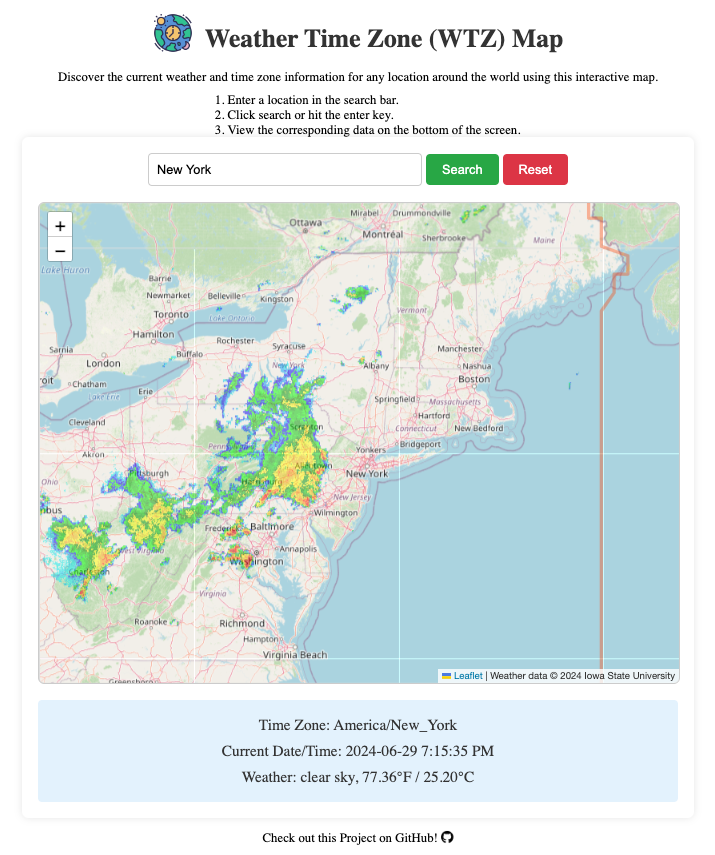
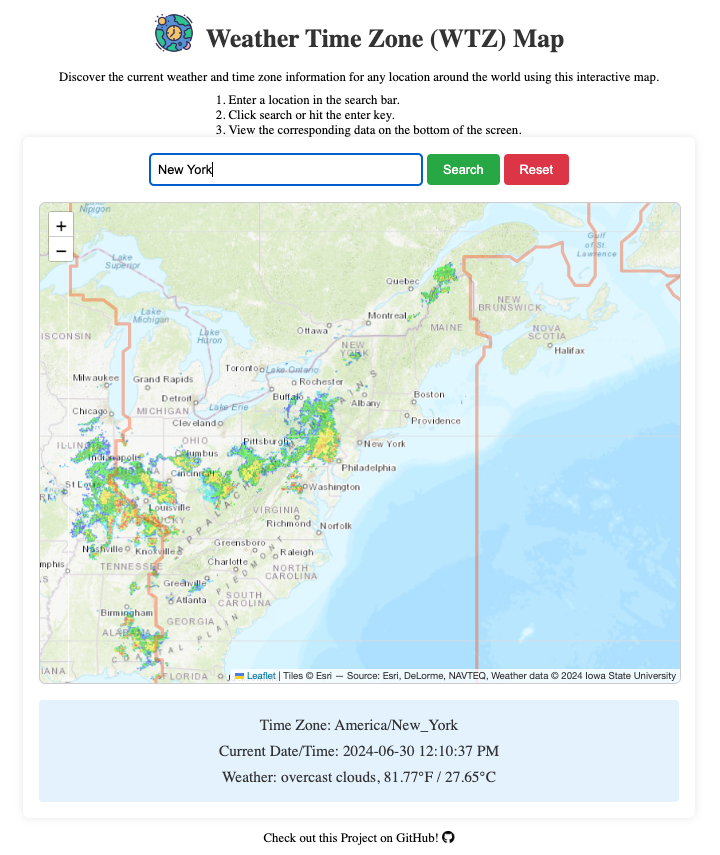
Update README and map style

diff --git a/components/MapComponent.vue b/components/MapComponent.vue
@@ -190,9 +190,20 @@ export default defineComponent({
       if (mapElement.value) {
         console.log("Initializing map");
         map.value = L.map(mapElement.value).setView([0, 0], 2);
+        
+        /* Change Map Provider Here */
+        L.tileLayer('https://server.arcgisonline.com/ArcGIS/rest/services/{style}/MapServer/tile/{z}/{y}/{x}', {
+          attribution: 'Tiles &copy; Esri &mdash; Source: Esri, DeLorme, NAVTEQ',
+          style: 'World_Topo_Map' // Change this to other styles like 'NatGeo_World_Map', 'World_Street_Map', etc.
+        }).addTo(map.value);
+        /*...*/
+
+        /* Previous Map Provider */
+        /*
         L.tileLayer("https://{s}.tile.openstreetmap.org/{z}/{x}/{y}.png", {
           maxZoom: 18,
         }).addTo(map.value);
+        */
         console.log("Map initialized");
 
         timezoneLayer.value = L.timezones

diff --git a/README.md b/README.md
@@ -2,7 +2,7 @@
 
 <div align="center">
     <a href="https://github.com/scottgriv/WTZ-Map" target="_blank">
-        <img src="/docs/images/icon.png" width="200" height="200"/>
+        <img src="./docs/images/icon.png" width="200" height="200"/>
     </a>
 </div>
 <br>
@@ -13,7 +13,7 @@
     <a href="mailto:scott.grivner@gmail.com"><img src="https://img.shields.io/badge/gmail-contact_me-EA4335?style=for-the-badge&logo=gmail" alt="Email Badge" /></a>
     <a href="https://www.buymeacoffee.com/scottgriv"><img src="https://img.shields.io/badge/buy_me_a_coffee-support_me-FFDD00?style=for-the-badge&logo=buymeacoffee&color=FFDD00" alt="BuyMeACoffee Badge" /></a>
     <br>
-    <a href="https://github.com/scottgriv/WTZ-Map/actions/workflows/pages/deploy-nuxt-site-to-pages" target="_blank"><img alt="GitHub Workflow Status (with event)" src="https://img.shields.io/github/actions/workflow/status/scottgriv/WTZ-Map/pages/deploy-nuxt-site-to-pages?style=for-the-badge&logo=github&label=GitHub%20Pages"></a>
+    <a href="https://github.com/scottgriv/WTZ-Map/actions/workflows/nuxtjs.yml" target="_blank"><img alt="GitHub Workflow Status (with event)" src="https://img.shields.io/github/actions/workflow/status/scottgriv/WTZ-Map/nuxtjs.yml?style=for-the-badge&logo=github&label=GitHub%20Pages"></a>
[1 lines of base64/hex data omitted]
 </p>
 
@@ -72,13 +72,9 @@ Before you begin, ensure you have met the following requirements:
 
     Create a `.env` file in the root directory of your project and add your API keys:
     ```plaintext
-    OPENWEATHER_API_KEY=your_openweathermap_api_key
-    TIMEZONEDB_API_KEY=your_timezonedb_api_key
+    NUXT_ENV_OPENWEATHER_API_KEY=your_openweathermap_api_key
+    NUXT_ENV_TIMEZONEDB_API_KEY=your_timezonedb_api_key
     ```
-
-    For deployment on GitHub Pages, add the API keys as secrets in your GitHub repository settings:
-    - `OPENWEATHER_API_KEY`
-    - `TIMEZONEDB_API_KEY`
 
 5. **Run the application locally:**
     ```bash
@@ -95,8 +91,12 @@ To deploy your Nuxt application to GitHub Pages, follow these steps:
     - Navigate to `Secrets and variables` > `Actions`.
     - Click on `New repository secret`.
     - Add the following secrets:
-        - `OPENWEATHER_API_KEY`
-        - `TIMEZONEDB_API_KEY`
+        - `NUXT_ENV_OPENWEATHER_API_KEY`
+        - `NUXT_ENV_TIMEZONEDB_API_KEY`
+
+> [!CAUTION]
+> Secrets must have the `NUXT_ENV` prefix to properly work.
+> See [this Nuxt.js documentation here](https://v2.nuxt.com/docs/configuration-glossary/configuration-env/#automatic-injection-of-environment-variables) for more information.
 
 ## Usage
 
@@ -121,6 +121,23 @@ To deploy your Nuxt application to GitHub Pages, follow these steps:
 - [Leaflet](https://leafletjs.com/)
 - [Axios](https://axios-http.com/)
 - [Leaflet.timezones](https://github.com/dj0001/Leaflet.timezones)
+
+**Maps**
+_Free Tile Providers (No API Key Required)_
+- [Esri](https://www.esri.com/en-us/capabilities/mapping/overview)
+- [OpenStreetMap](https://www.openstreetmap.org/)
+- [CartoDB](https://carto.com/)
+_Tile Providers Requiring API Key_
+- [Mapbox](https://www.mapbox.com/)
+- [Stadia x Stamen](https://stadiamaps.com/stamen)
+- [HERE Maps](https://www.here.com//)
+- [Thunderforest](https://www.thunderforest.com/)
+- [MapTiler](https://www.maptiler.com/)
+
+> [!NOTE] 
+> Easily swap out your map provider by searching for the `Change Map Provider Here` comment in the code base.
+> Replace it with your map/tile provider or one of the providers mentioned above.
+> By default, I'm using **Esri** with the `World_Topo_Map` (topological) style.
 
 ## License
 
